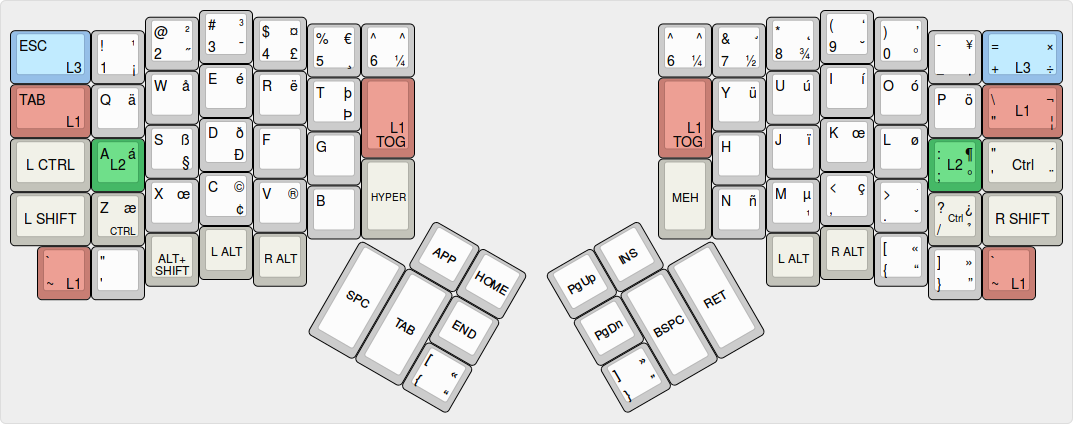
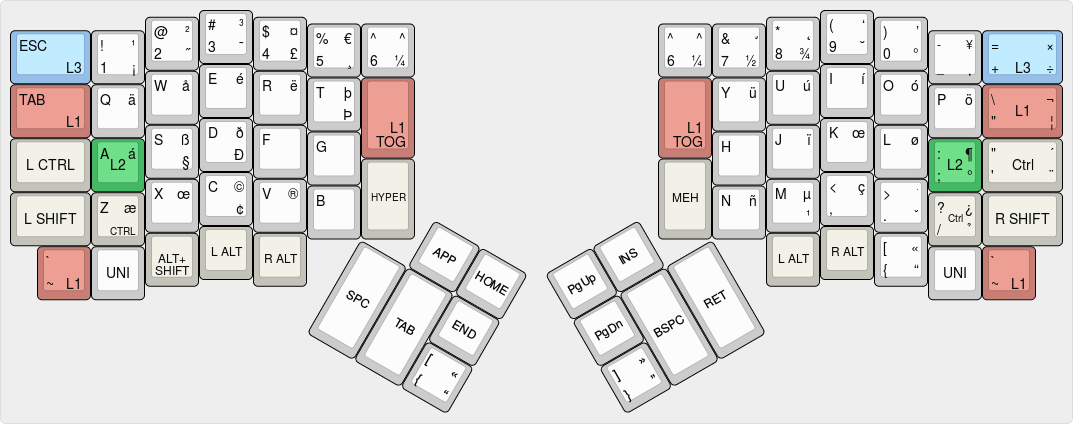
[deadcyclo layout] Added more unicode keys and ibus unicode compose trigger keys

diff --git a/keyboards/ergodox/keymaps/deadcyclo/keymap.c b/keyboards/ergodox/keymaps/deadcyclo/keymap.c
@@ -47,7 +47,7 @@ const uint16_t PROGMEM keymaps[][MATRIX_ROWS][MATRIX_COLS] = {
  * |--------+------+------+------+------+------| Hyper|           | Meh  |------+------+------+------+------+--------|
  * | LShift |Z/Ctrl|   X  |   C  |   V  |   B  |      |           |      |   N  |   M  |   ,  |   .  |//Ctrl| RShift |
  * `--------+------+------+------+------+-------------'           `-------------+------+------+------+------+--------'
- *   |Grv/L1|  '"  |AltShf| Lalt | Ralt |                                       | Lalt | Ralt |   [  |   ]  | ~/L1 |
+ *   |Grv/L1|  UNI |AltShf| Lalt | Ralt |                                       | Lalt | Ralt |   [  |  UNI | ~/L1 |
  *   `----------------------------------'                                       `----------------------------------'
  *                                        ,-------------.       ,-------------.
  *                                        | App  | Home |       | PgUp |  Ins   |
@@ -65,7 +65,7 @@ const uint16_t PROGMEM keymaps[][MATRIX_ROWS][MATRIX_COLS] = {
         LT(SYMB,KC_TAB),        KC_Q,         KC_W,   KC_E,   KC_R,   KC_T,   TG(SYMB),
         KC_LCTL,        LT(MDIA, KC_A),         KC_S,   KC_D,   KC_F,   KC_G,
         KC_LSFT,        CTL_T(KC_Z),  KC_X,   KC_C,   KC_V,   KC_B,   ALL_T(KC_NO),
-        LT(SYMB,KC_GRV),KC_QUOT,      LALT(KC_LSFT),  KC_RALT,KC_LALT,
+        LT(SYMB,KC_GRV),LCTL(LSFT(KC_U)),      LALT(KC_LSFT),  KC_RALT,KC_LALT,
                                               ALT_T(KC_APP),  KC_HOME,
                                                               KC_END,
                                                KC_SPC,KC_TAB,KC_LBRC,
@@ -74,12 +74,12 @@ const uint16_t PROGMEM keymaps[][MATRIX_ROWS][MATRIX_COLS] = {
 	TG(SYMB),    KC_Y,   KC_U,   KC_I,   KC_O,   KC_P,             LT(SYMB, KC_BSLS),
 	KC_H,   KC_J,   KC_K,   KC_L,   LT(MDIA, KC_SCLN),CTL_T(KC_QUOT),
              MEH_T(KC_NO),KC_N,   KC_M,   KC_COMM,KC_DOT, CTL_T(KC_SLSH),   KC_RSFT,
-		KC_LALT,  KC_RALT,KC_LBRC,KC_RBRC,          LT(SYMB,KC_TILD),
+		KC_LALT,  KC_RALT,KC_LBRC,LCTL(LSFT(KC_U)),          LT(SYMB,KC_TILD),
              KC_PGUP,        KC_INS,
              KC_PGDN,
              KC_RBRC,KC_BSPC, KC_ENT
     ),
-/* Keymap 1: Symbol Layer
+/* Keymap 1: Symbol Layer LCTL(LSFT(KC_U))
  *                                                  
  * ,--------------------------------------------------.           ,--------------------------------------------------.
  * |        |  F1  |  F2  |  F3  |  F4  |  F5  |  F6  |           |  F6  |  F7  |  F8  |  F9  |  F10 |  F11 |   F12  |
@@ -166,18 +166,18 @@ const uint16_t PROGMEM keymaps[][MATRIX_ROWS][MATRIX_COLS] = {
 /* Keymap 3: Unicode
  *
  * ,--------------------------------------------------.           ,--------------------------------------------------.
- * |        | VER  |      |      |      |      |      |           |      |      |      |      |      |      |        |
+ * |        |  ┌   |  ┐   |  └   |  ┘   |  │   |  ─   |           |  ╔   |  ╗   |  ╚   |  ╝   |  ║   |  ═   |        |
  * |--------+------+------+------+------+-------------|           |------+------+------+------+------+------+--------|
- * |        | shrug| yay  | hug  | smile|smile2|      |           |      |  ■   |  λ   |  →   |  ➙   |  ▻   |        |
+ * |        | shrug| yay  | hug  | smile|smile2|      |           |      |  ■   |  λ   |  →   |  ➙   |  ▻   |  █     |
  * |--------+------+------+------+------+------|      |           |      |------+------+------+------+------+--------|
- * |        | hmm1 | hmm2 | bear1| bear2| fuu  |------|           |------|  ☺   |  ☻   |  ☹   |  ♡   |  ♥   |        |
+ * |        | hmm1 | hmm2 | bear1| bear2| fuu  |------|           |------|  ☺   |  ☻   |  ☹   |  ♡   |  ♥   |  ░     |
  * |--------+------+------+------+------+------|      |           |      |------+------+------+------+------+--------|
- * |        | eggy1| eggy2| face1| face2| uhu  |      |           |      |  ❤   |      |      |      |      |        |
+ * |        | eggy1| eggy2| face1| face2| uhu  |      |           |      |  ❤   |  ☐   |  ☑   |  ☒   |  ✓   |  ▄     |
  * `--------+------+------+------+------+-------------'           `-------------+------+------+------+------+--------'
- *   |      | smrk1| smrk2| love |      |                                       |      |      |      |      |      |
+ *   |      | smrk1| smrk2| love | VER  |                                       |  ✔   |  ✗   |  ✘   |  ●   |  ▀   |
  *   `----------------------------------'                                       `----------------------------------'
  *                                        ,-------------.       ,-------------.
- *                                        |      |      |       |      |      |
+ *                                        |      |      |       |   ▒  |  ▓   |
  *                                 ,------|------|------|       |------+------+------.
  *                                 |      |      |      |       |      |      |      |
  *                                 |      |      |------|       |------|      |      |
@@ -186,23 +186,23 @@ const uint16_t PROGMEM keymaps[][MATRIX_ROWS][MATRIX_COLS] = {
  */
 // Unicode
 [NAVG] = KEYMAP(
-       KC_TRNS, VRSN, KC_TRNS, KC_TRNS, KC_TRNS, KC_TRNS, KC_TRNS,
+		KC_TRNS, UC(0x250c), UC(0x2510), UC(0x2514), UC(0x2518), UC(0x2502), UC(0x2500),
        KC_TRNS, SHRUG, YAY, HUG, SMILE, SMILE2, KC_TRNS,
        KC_TRNS, HMM1, HMM2, BEAR1, BEAR2, FUU,
        KC_TRNS, EGGY1, EGGY2, FACE1, FACE2, UHU, KC_TRNS,
-       KC_TRNS, SMRK1, SMRK2, LOVE, KC_TRNS,
-                                           KC_TRNS, KC_TRNS,
+       KC_TRNS, SMRK1, SMRK2, LOVE, VRSN,
+		KC_TRNS, KC_TRNS,
                                                     KC_TRNS,
                                   KC_TRNS, KC_TRNS, KC_TRNS,
     // right hand
-       KC_TRNS,  KC_TRNS, KC_TRNS, KC_TRNS, KC_TRNS, KC_TRNS, KC_TRNS,
-       KC_TRNS,  UC(0x25a0), UC(0x03bb), UC(0x2192), UC(0x2799), UC(0x25bb), KC_TRNS,
-                 UC(0x263a), UC(0x263b), UC(0x2639), UC(0x2661), UC(0x2665), KC_TRNS,
-       KC_TRNS,  UC(0x2764), KC_TRNS, KC_MPRV, KC_TRNS, KC_TRNS, KC_TRNS,
-                          KC_TRNS, KC_TRNS, KC_TRNS, KC_TRNS, KC_TRNS,
-       KC_TRNS, KC_TRNS,
-       KC_TRNS,
-       KC_TRNS, KC_TRNS, KC_TRNS
+       UC(0x2554),  UC(0x2557), UC(0x255a), UC(0x255d), UC(0x2551), UC(0x2550), KC_TRNS,
+       KC_TRNS,  UC(0x25a0), UC(0x03bb), UC(0x2192), UC(0x2799), UC(0x25bb), UC(0x2588),
+                 UC(0x263a), UC(0x263b), UC(0x2639), UC(0x2661), UC(0x2665), UC(0x2591),
+       KC_TRNS,  UC(0x2764), UC(0x2610), UC(0x2611), UC(0x2612), UC(0x2713), UC(0x2584),
+       UC(0x2714), UC(0x2717), UC(0x2718), UC(0x25cf), UC(0x2580),
+		UC(0x2592), UC(0x2593),
+		KC_TRNS,
+		KC_TRNS, KC_TRNS, KC_TRNS
 ),
 };
 

diff --git a/keyboards/ergodox/keymaps/deadcyclo/readme.md b/keyboards/ergodox/keymaps/deadcyclo/readme.md
@@ -28,6 +28,10 @@ TOG, are dual purpose. Hence for example the top left key produces ESC
 if tapped, and temporarilly toggles L3 when hold down. The two center
 L1 TOG keys toggle L1 on and off for more permanent layer toggling.
 
+The UNI keys enter the linux ibus unicode composer mode
+(ie. Ctrl+Shift+u). Use this to enter unicode characters. Hit the key,
+type in the unicode hex value, and hit enter.
+
 ## Layer 1 - Symbols and RGB
 
 [![Layer 1 - Symbols and RGB](images/deadcyclo-layer-1-symbols.png)](http://www.keyboard-layout-editor.com/#/gists/96714e198054c9115bafb5267cc6bc73)
@@ -58,12 +62,11 @@ The unicode layer provides keys for directly typing unicode (utf-8)
 - 24.01.2017 Added support for Ergodox Shine. Added secondary L2 switch key on left hand
 - 24.01.2017 Added unicode keys. Added shrug hug and yay. Moved Navigation to layer 2
 - 25.01.2017 Added lots of new emojis and some unicode keys
+- 27.01.2017 Added new unicode keys and shortcut for ibus unicode composer key (CTRL+SHIFT+U)
 
 # TODO
 
-- Add support for unicode by name? (See algernon layout for example)
 - Add macros for lots of stuff. (Lastpass cli, pushbullet cli, other push service cli, linode cli, more?)
 - Make macros for gnu screen and i3wm
 - Look into the app launch macros in algernon keymap
-- Make other smileys like shrug and yay ¯\_(ツ)_/¯ and \o/ and others (see amon others [http://dongerlist.com](http://dongerlist.com)
 
